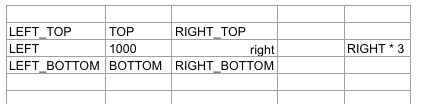
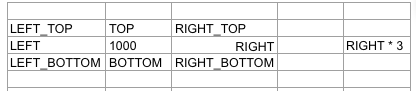
스샷 변경

Changed region(s): [[0.0, 0.022, 1.0, 1.0]]

diff --git a/src/test/java/team/nero/poi/relative/RelativeBookTest.java b/src/test/java/team/nero/poi/relative/RelativeBookTest.java
@@ -10,14 +10,14 @@ import java.io.IOException;
 public class RelativeBookTest {
     @Test
     public void init() throws IOException {
-        RelativeBook book = new RelativeBook("text");
+        RelativeBook book = new RelativeBook("test");
         RelativeSheet sheet = book.getSheet("sheet1");
 
         RelativeCell cell = sheet.getPivotCell("B", 3);
         cell.setValue("1000");
 
         RelativeCell cell1 = cell.next(Direction.RIGHT);
-        cell1.setValue("right");
+        cell1.setValue("RIGHT");
         CellStyle style = cell1.createNewStyleAndGet();
         style.setAlignment(HorizontalAlignment.RIGHT);
 
